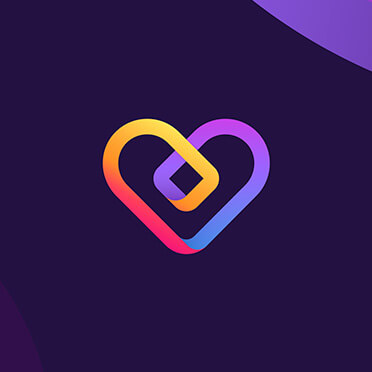
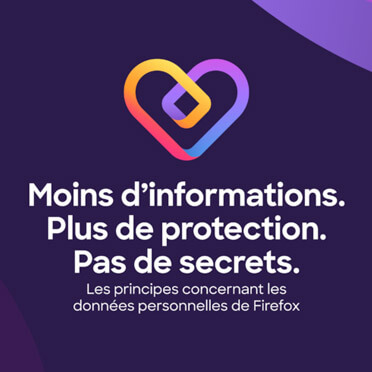
FR copy tweaks

diff --git a/content/home-fr/card_8/fr.md b/content/home-fr/card_8/fr.md
@@ -2,7 +2,7 @@
 # card 8
 title: "Cryptominage : mauvaise pioche"
 tag_label: "Sécurité"
-desc: "Les mineurs de cryptomonnaie pourraient utiliser les ressources de votre ordinateur pour générer la monnaie sans votre consentement. Firefox les en empêche."
+desc: "Les mineurs de cryptomonnaie peuvent utiliser votre ordinateur pour générer la monnaie sans votre consentement. Firefox les en empêche."
 link_url: "https://blog.mozilla.org/firefox/fr/bloquez-les-cryptominers-avec-firefox/?utm_source=www.mozilla.org&utm_medium=referral&utm_campaign=homepage&utm_content=card"
 size: "medium"
 image: "ico.jpg"

diff --git a/content/home-fr/card_4/fr.md b/content/home-fr/card_4/fr.md
@@ -1,8 +1,8 @@
 ---
 # card 4
-title: "Empêchez Facebook de vous piste"
+title: "Mettez Facebook en boîte"
 tag_label: "Firefox"
-desc: "Avec l'extension Facebook Container vous rendez difficile pour Facebook de collecter vos données et de vous pister sur le web."
+desc: "Avec l'extension Facebook Container, vous rendez difficile pour Facebook de collecter vos données et de vous pister sur le web."
 link_url: "https://addons.mozilla.org/firefox/addon/facebook-container/?utm_source=www.mozilla.org&utm_medium=referral&utm_campaign=homepage&utm_content=card"
 size: "small"
 image: "container.png"

diff --git a/content/home-fr/card_6/fr.md b/content/home-fr/card_6/fr.md
@@ -2,7 +2,7 @@
 # card 6
 title: "Lockwise mémorise vos mots de passe"
 tag_label: "Vidéo"
-desc: "Gérez vos mots de passe en toute sécurité et emportez-les partout avec vous avec Firefox Lockwise"
+desc: "Gérez vos mots de passe en toute sécurité et emportez-les partout avec vous avec Firefox Lockwise."
 link_url: "https://lockwise.firefox.com/?utm_source=www.mozilla.org&utm_medium=referral&utm_campaign=homepage&utm_content=card"
 size: "medium"
 image: "lockwise.jpg"

diff --git a/content/home-fr/card_2/fr.md b/content/home-fr/card_2/fr.md
@@ -7,5 +7,4 @@ link_url: "https://blog.mozilla.org/firefox/fr/engagements-concernant-les-donnee
 size: "small"
 image: "promise.jpg"
 aspect_ratio: "1-1"
-include_highres_image: true
 ---
